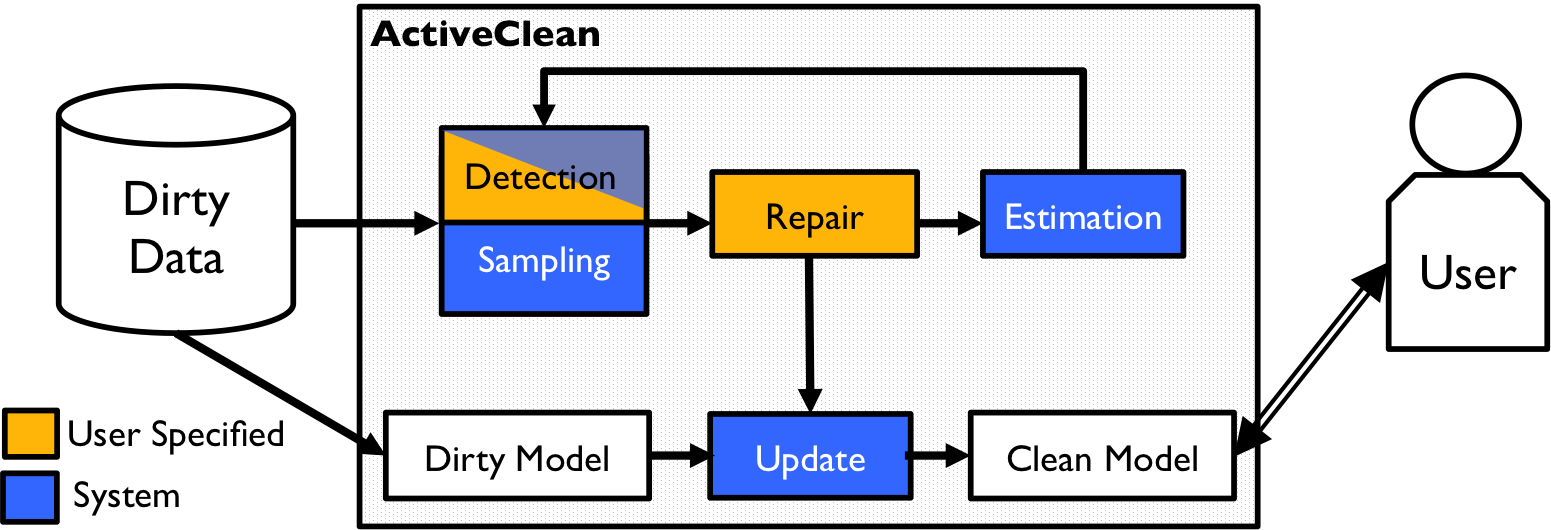
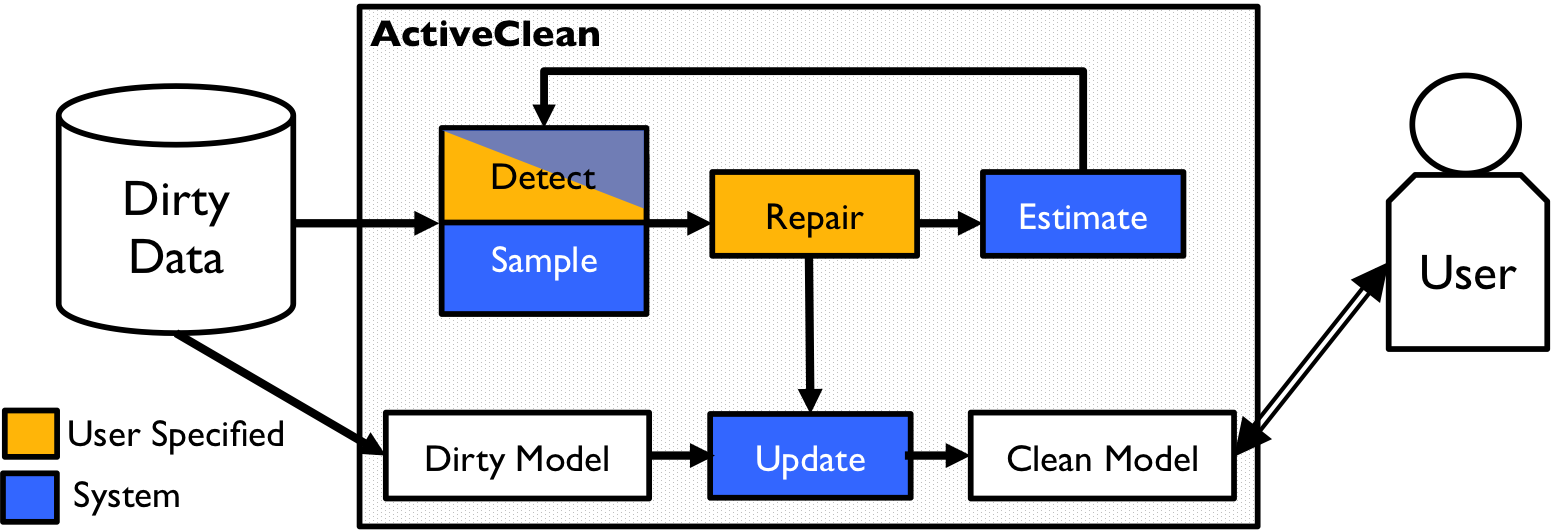
Updated

Changed region(s): [[0.2785, 0.3019, 0.4023, 0.3623], [0.6499, 0.3623, 0.7427, 0.4528], [0.3095, 0.4528, 0.4023, 0.5434]]

diff --git a/architecture.tex b/architecture.tex
@@ -1,26 +1,50 @@
 \section{System Architecture}\label{arch}
-Now, we overview the \sys architecture, its goals, and describe how our framework integrates with existing data cleaning solutions.
+Now, we overview the \sys architecture, and setup the basic algorithmic framework.
+We will address the individual components in the subsequent sections.
 
 \subsection{Overview}
-The primary goal of \sys is to provide a framework that wraps around existing Machine Learning and Data Cleaning systems.
-Instead of cleaning the entire data upfront and then training a model, we initialize the framework with a model, and iteratively correct it with small batches of clean data.
-Built into the framework are feedback mechanisms that use information from the cleaning to improve performance on future batches of clean data.
+We revist the architecture diagram (Figure \ref{sys-arch}) in more detail.
+The first step of the system is \emph{initialization}.
+In this step, the user provides a dirty dataset $R$, a repair technique $C(\cdot)$, and a dirty model $\theta^{(d)}$ trained on the dirty dataset. 
+Optionally, if available, the user can provide a dirty data detector $D(\cdot)$ which selects the set of corrupted records when applied to $R$.
+This is possible for some types of data errors such as constraint violations and missing values.
+If one is not provided, we will start by assuming all of the data is dirty and try to learn a detector as we clean more data.
+At initialization, there are two hyperparameters to set, the batch size (how much data per iteration to repair) and the number of iterations.
 
-There are two basic operating modes of \sys: (1) error detection oracle and (2) adaptive error detection. 
-These two modes differ in the way they partition dirty and clean data, where (1) assumes we can differentiate the two in advance, and (2) assumes we can learn it from samples.
-Partitioning serves two purposes: (1) it reduces the variance of our updates because we can cheaply scan over data we know that is clean, and (2) it increases the fraction of actually dirty records in the candidate batch.
-A good example of why we need the second objective is seen in the context of crowdsourcing.
-If we have a crowdworker clean records, we will have to pay them for the task whether or not the record required cleaning.
-Partitioning has important ramifications since classifiying erroneous data as cleaned can impart a bias on our model.
-We will overview how the architecture and applications change based on these modes.
+After initialization, \sys begins the cleaning and model update iterations.
+The first iterative step is \emph{sampling}.
+\sys selects a sample of dirty data based on the batch size.
+At this step, \sys can use any information (such as the detector $D$) to narrow the sample to select only dirty data.
+Once a sample is selected, we apply the user-specified data cleaning operation to the sample in the \emph{repair} step.
+Then, after the sample is cleaned, the dirty model is updated in the model \emph{update} step.
 
-First, we overview our notation and terminology:
+The next two steps in the archictecture are feedback steps where we update the sampling for the next iteration.
+We have an \emph{estimation} step which estimates the change on the model if a dirty record is cleaned based on prior cleaned data.
+This information can be used to guide sampling towards more valuable records.
+After estimation, we also update our detector $D(\cdot)$ based on the data that we have cleaned.
+After all of the iterations are complete, the system returns the cleaned model.
+
+To summarize the architecture in pseudocode:
+\begin{enumerate}\scriptsize\sloppy
+\item \texttt{Init(dirty\_data, dirty\_model, batch, iter)}
+\item For each i in $\{1,...,T\}$
+\begin{enumerate}
+	\item \texttt{dirty\_sample $=$ Sample(dirty\_data, sample\_prob, detector, batch)}
+	\item \texttt{clean\_sample $=$ Repair(dirty\_sample)}
+	\item \texttt{dirty\_model $=$ Update(dirty\_model, sample\_prob, clean\_sample)}
+	\item \texttt{sample\_prob $=$ Estimate(dirty\_data, cleaned\_data, detector)}
+	\item \texttt{detector $=$ UpdateDetector(detector)}
+\end{enumerate}
+\end{enumerate}
+
+\subsection{Challenges and Formalization}
+The repair step is user-specified and the other steps build a framework around this. 
 
 \vspace{0.5em}
 
-\noindent \textbf{Featurization: } Given a relation $R$ with a set of attributes $A$.
+\noindent \textbf{Featurization. } Given a relation $R$ with a set of attributes $A$.
 There is a featurization function $F$ which maps every row in $\mathcal{R}$ to a $d$ dimensional feature vector and a $l$ dimensional label tuple: 
-\[F(r \in \mathcal{R}) \mapsto (\mathbb{R}^l, \mathbb{R}^d)\]
+\[F(r \in R) \rightarrow (\mathbb{R}^l, \mathbb{R}^d)\]
 The result of the featurization are the data matrices $X$ and $Y$.
 \[
 F(R)\rightarrow (X,Y)
@@ -29,150 +53,21 @@ We consider problems in which the training examples (i.e., rows in the data matr
 
 \vspace{0.5em}
 
-\noindent\textbf{Initialization: } To initialize \sys, the user gives us the base dirty relation $R$, the featurization $F$, and a dirty model $\theta^{(d)}$ that is derived from the dirty relation. So initially $\theta^{(1)} = \theta^{(d)}$
+\noindent\textbf{Detect (Section ??). } The first challenge in \sys is dirty data dection. This is key part of our sampling framework. In this step, we select a candidate set of dirty records $R_{dirty} \subseteq R$. We will discuss two techniques to do this: (1) an a priori case, and (2) and adaptive case. In the a priori case, we know which data is dirty in advance. In the adaptive case, we have to train a classifier based on data we have already cleaned to select the dirty data. This serves two purposes: (1) it reduces the variance of our updates because we can cheaply scan over data we know that is clean, and (2) it increases the fraction of actually dirty records in the candidate batch.
 
 \vspace{0.5em}
 
-\noindent\textbf{Error Detection: } The first step in \sys is error detection. In this step, we select a candidate set of dirty records $R_{dirty} \subseteq R$.  
+\noindent\textbf{Sample (Section ??). } We take a sample of the records $S_{dirty} \subseteq R_{dirty}$. This is a non-uniform sample where each record $r$ has a sampling probability $p_r$.
+We will show that we can derive the optimal sampling distribution (choice of $p_r$ that minimizes the variance of our updates) theoretically, however, it will depend on knowing the cleaned data before we actually clean. This is why we introduce an estimation step to approximate this cleaned value.
 
 \vspace{0.5em}
 
-\noindent\textbf{Error Sampling: } The second step in \sys is sampling. Since we cannot clean all of the dirty records, we take a sample of the records $S_{dirty} \subseteq R_{dirty}$.
+\noindent\textbf{Update (Section ??). } Then, we update the model $\theta^({(i)})$ based on the newly cleaned data $F(S_{clean})$. The result is the updated model $\theta^({(i+1)})$. We will present the model update before we derive the optimal sampling distribution.
+This is because that distribution will naturally fall out of our update procedure.
 
 \vspace{0.5em}
 
-\noindent\textbf{Error Repair: } Next, we apply a repair procedure $C$ to the sample of data $S_{dirty}$ to get a clean sample $S_{clean}$. Given a dirty record $r$, the error repair module applies a repair $C$ to the record, to return $C(r)\mapsto r_{clean}$. 
-
-\vspace{0.5em}
-
-\noindent\textbf{Model Update: } Then, we update the model $\theta^({(i)})$ based on the newly cleaned data $F(S_{clean})$. The result is the updated model $\theta^({(i+1)})$.
-
-\vspace{0.5em}
-
-\noindent\textbf{Error Impact Estimate: } Based on the change between $F(S_{clean})$ and $F(S_{dirty})$, we direct the next iteration of sampling to select points that will have changes most valuable to the next model update.
-
-\subsubsection{Error Detection Oracle}
-For many types of errors, it is possible to efficiently enumerate a set of corrupted records and enumerate what is wrong with these records.
-For example, in example \ref{exm-1}, this is the set of records with missing values and we know exactly which attributes (and corresponding features) are corrupted.
-We describe these types of errors as having an \emph{error detection oracle}.
-In Figure \ref{sys-arch4a}, we add more detail to our introductory architecture diagram when we are applying \sys to such errors.
-
-\begin{figure}[t]
-\centering
- \includegraphics[width=0.6\columnwidth]{figs/arch1a.png}
- \caption{We detail the \sys architecture when we are using an error detection oracle. In this model, we have a way to enumerate all the records that are dirty before running any cleaning. \label{sys-arch4a}}
-\end{figure}
-
-\begin{enumerate}
-\item Initialize with a dirty model $\theta^{(1)} = \theta^{(d)}$, batch size $b$, and number of iterations $T$
-\item Error Detection. In the first step, we use the oracle to select a set of records $R_{dirty}$.
-Associated with each $r \in R_{dirty}$ is a set of errors $e_r$ which tells us which features are corrupted.
-For example, if a missing value in attribute $a$ affects features $\{1,2,6\}$, then $e_r=\{1,2,6\}$.
-The error detection step gives us the following tuple: $(R_{dirty},E_r)$.
-
-\item For each iteration $i=1,...,T$
-
-\begin{enumerate}
-\item Error Sampling. We sample a batch of records from $R_{dirty}$ each record has a sampling probability $p_i$. (Described in Section \ref{model-update})
-\item Error Repair. We apply the user-specified data cleaning $C(S_{dirty})$
-\item Model Update. We use the results of the cleaning to update the model $\theta^{(i+1)}$ (Described in Section \ref{model-update}).
-\item Error Impact Estimate. Based on the results of the cleaning, we update $p_i$ to guide the data cleaning to the most valuable data (Described in Section \ref{sampling}).
-\end{enumerate}
-\item Return $\theta^{(T+1)}$
-\end{enumerate}
-
-\noindent We highlight example use cases of this architecture using data cleaning methodologies proposed in the liteature.
-
-\vspace{0.5em}
-
-\noindent\textbf{Constraint-based Repair: }
-One model for handling errors in database declaring a set of constraints on a database and 
-iteratively fixing records such that the constraints are satisfied \cite{DBLP:journals/pvldb/YakoutENOI11, DBLP:journals/pvldb/FanLMTY10, khayyat2015bigdansing}.
-However, automatically repairing can be unreliable \cite{DBLP:journals/pvldb/FanLMTY10}.
-Recently proposed systems like Guided Data Repair \cite{DBLP:journals/pvldb/YakoutENOI11}, use human input to validate suggested fixes.
-
-\vspace{0.5em}
-
-\emph{Error Detection. } Let $\Sigma$ be a set of constraints on the relation $\mathcal{R}$. 
-In the error detection step, we select a subset of records $\mathcal{R}_{dirty} \subseteq \mathcal{R}$ that violate at least one constraint.
-The set $e_r$ is the set of columns for each record which have a constraint violation.
-
-\vspace{0.5em}
-
-\emph{Error Repair. } \sys supports both automated and human validated data repair for constraints. For automated techniques, we can apply the record-level ``local" repair proposed in \cite{DBLP:journals/pvldb/FanLMTY10} or we can use human corrections as in \cite{DBLP:journals/pvldb/YakoutENOI11}. 
-
-\begin{example}
-Consider our EEG data running example, for an example of constraint-based cleaning.
-We can add a constraint that one of the electrical signals cannot be greater than 4V.
-For all records whose value is above 4V, we would select them in the error detection step.
-Then, in the error repair step, we could apply a repair that sets the erroneous signal value to its most likely value.
-\end{example}
-
-\vspace{0.5em}
-
-\noindent\textbf{Entity Resolution: }
-Another common data cleaning task is Entity Resolution \cite{gokhale2014corleone, DBLP:journals/pvldb/KopckeTR10, wang2012crowder}.
-A common pattern in Entity Resolution is to split up the operation into two steps: blocking and matching.
-In blocking, attributes that should be the same are coarsely grouped together.
-In matching, those coarse groups are resolved to a set of distinct entities.
-Increasingly the matching step is done by crowd workers \cite{wang2012crowder, gokhale2014corleone}, leading to very expensive costs.
-
-\vspace{0.5em}
-
-\emph{Error Detection. } This is the matching step. Let $S$ be a similarity function that takes two records and returns a value in $[0,1]$ (1 most similar and 0 least similar). For some threshold $t$, $S$ defines a similarity relationship between two records $r$ and $r'$:
-\[
-r \approx r' : S(r,r') \ge t
-\] 
-In the error detection step, $R_{dirty}$ is the set of records that have at least one other record in the relation that satisfy $r \approx r'$.
-The set $e_r$ is the attributes of $r$ that have entity resolution problems.
-
-\vspace{0.5em}
-
-\emph{Error Repair. } \sys supports both automated and human validated entity resolution for resolving a set of matches to a single entity.
-
-\begin{example}
-An example of an Entity Resolution problem is where the patient's gender is inconsistently represented (e.g., ``Male", ``M", ``Man"). 
-We can define a similarity relationship $(\text{first char =} 'M')$ and select all records that satisfy this condition.
-In the error repair step, a human can fix the inconsistencies setting all records that meet the condition to the canonical value.
-\end{example}
-
-\subsubsection{Adaptive Detection}
-The second operating mode of \sys is adaptive detection.
-In this mode, the analyst does not know the set of errors in advance but learns them as she cleans more data.
-Consider the case when she has to do exploratory data analysis to discover the errors.
-In Figure \ref{sys-arch4b}, we add more detail to our introductory architecture diagram when we are applying \sys to such errors.
-
-\begin{figure}[t]
-\centering
- \includegraphics[width=0.6\columnwidth]{figs/arch1b.png}
- \caption{We detail the \sys architecture when we are using adaptive detection. In this model, we do not assume that we can enumerate the set of erroneous records in advance. \label{sys-arch4a}}
-\end{figure}
-
-\begin{enumerate}
-\item Initialize with a dirty model $\theta^{(1)} = \theta^{(d)}$, batch size $b$, number of iterations $T$, and $R_{dirty} = R$
-\item For each iteration $i=1,...,T$
-\begin{enumerate}
-\item Error Sampling. We sample a batch of records from $R_{dirty}$ each record has a sampling probability $p_i$. (Described in Section \ref{model-update})
-\item Error Repair. We apply the user-specified data cleaning $C(S_{dirty})$
-\item Model Update. We use the results of the cleaning to update the model $\theta^{(i+1)}$ (Described in Section \ref{model-update}).
-\item Error Impact Estimate. Based on the results of the cleaning, we update $p_i$ to guide the data cleaning to the most valuable data (Described in Section \ref{sampling}).
-\item We maintain a classifier to prune the set of dirty records based on what was cleaned.
-\end{enumerate}
-\item Return $\theta^{(T+1)}$
-\end{enumerate}
-
-\noindent We highlight an example use case of this architecture.
-
-\vspace{0.5em}
-
-\noindent\textbf{Interactive Data Cleaning with OpenRefine.}
-\begin{example}
-Consider our analyst using an interative tool such as OpenRefine \cite{openrefine} to clean her data. 
-She takes a sample of data from the entire dataset.
-She then uses the tool to determine which records are corrupted and dirty.
-As she marks more records as dirty, the system learns what features determines a dirty record.
-This classifier can be used to guide cleaning in future batches of data.
-\end{example}
+\noindent\textbf{Estimate (Section ??): } The estimation step approximates the optimal distribution derived in the Sample step. Based on the change between $F(S_{clean})$ and $F(S_{dirty})$, we direct the next iteration of sampling to select points that will have changes most valuable to the next model update.
 
 \iffalse
 \subsection{Optimizations}

diff --git a/background.tex b/background.tex
@@ -157,7 +157,7 @@ Increasingly, human effort is seen as unavoidable in data cleaning \cite{park201
 When humans are involved, per record latencies for data repair are orders of magnitude larger than the CPU time needed for model training.
 We can compare recent results in data cleaning to a model training framework like CoCoA implemented on Spark \cite{jaggi2014communication}.
 Per record, BigDansing, a highly optimized automated Spark-based data cleaning system is 15.5x slower\footnote{For CoCoA to reach a precision of 1e-3}.
-Crowd based techiques like CrowdFill \cite{park2014crowdfill} and CrowdER \cite{wang2012crowder} are over 100000x slower per record.
+Crowd based techiques like CrowdFill \cite{park2014crowdfill} and CrowdER \cite{wang2012crowder} are over 100,000x slower per record.
 
 \noindent Here is an example application of \sys with our running example:
 \begin{example}
@@ -170,12 +170,6 @@ After each batch, the model is updated with the most recent cleaning results $\t
 The model improves after each iteration.
 After $t=4$ of cleaning, the analyst has an accurate model trained with 40 cleaned records but still utilizes the entire dirty data.
 \end{example}
-
-Now that we have introduced the problem, the rest of the paper is organized as follows.
-We describe the framework and walk through the algorithm in Section \ref{arch}.
-Then, in Section \ref{model-update}, we describe how to apply model updates based on a sample of cleaned data with a gradient.
-In Section \ref{optimizations}, we describe an optimal sampling problem which assumes we know the clean data in advance.
-Then, in Section \ref{sampling}, we make the theoretical results of previous section practical using an error estimation procedure.
 
 \iffalse
 
